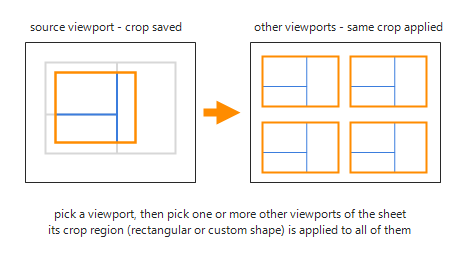
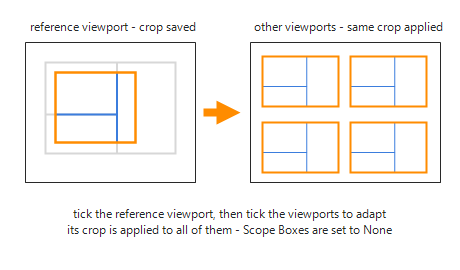
Update Copy Crop Region tool documentation and improve user instructions; replace source viewport selection with reference viewport selection

Changed region(s): [[0.0913, 0.7704, 0.913, 0.8889], [0.0609, 0.0889, 0.4261, 0.1185]]

diff --git a/ADA TOOLS.extension/ADA TOOLS.Tab/Sheet.panel/CopyCropRegion.pushbutton/script.py b/ADA TOOLS.extension/ADA TOOLS.Tab/Sheet.panel/CopyCropRegion.pushbutton/script.py
@@ -2,21 +2,22 @@
 __doc__ = """Copy the crop region of one viewport to other viewports on the
 same sheet.
 
-  1. select the source viewport on the sheet (or select it before
-     launching the tool) - its crop region is saved,
-  2. pick one or more of the other viewports of the sheet from the
-     list,
+  1. tick the reference viewport in the list of the active sheet's
+     viewports - its crop region is saved,
+  2. tick one or more of the other viewports of the sheet,
   3. the saved crop region is applied to all of them.
 
 Rectangular crops (rotated or not) and custom-shaped crops are both
 copied, at the same place in the model. The crop is turned on in the
-target views if it was off. On Revit 2022+ each target viewport is
-then moved back so the model stays where it was on the sheet.
+target views if it was off. If a target's crop is driven by a Scope
+Box, its Scope Box is set to None so the copied crop overrides it.
+On Revit 2022+ each target viewport is then moved back so the model
+stays where it was on the sheet.
 
 Views are skipped (and listed in the report) when they look in a
-different direction than the source (e.g. a section vs a plan), when
-their crop is driven by a Scope Box, or when the source has a split
-crop region. The whole change is one undoable transaction."""
+different direction than the reference (e.g. a section vs a plan).
+A reference with a split crop region cannot be copied. The whole
+change is one undoable transaction."""
 __title__ = "Copy Crop\nRegion"
 __version__ = "Version 1.0"
 __author__ = "ADA"
@@ -24,14 +25,11 @@ __author__ = "ADA"
 import clr
 
 clr.AddReference('RevitAPI')
-clr.AddReference('RevitAPIUI')
 
 from Autodesk.Revit.DB import (
     BoundingBoxXYZ, BuiltInParameter, CurveLoop, ElementId, SubTransaction,
-    Transaction, Transform, View3D, ViewSheet, ViewType, Viewport, XYZ
+    Transaction, Transform, View3D, ViewSheet, ViewType, XYZ
 )
-from Autodesk.Revit.UI.Selection import ISelectionFilter, ObjectType
-from Autodesk.Revit.Exceptions import OperationCanceledException
 
 from pyrevit import forms, revit, script
 
@@ -41,20 +39,11 @@ from GUI.forms import select_from_dict
 from GUI.ReportTheme import ADAReport
 
 doc = revit.doc
-uidoc = revit.uidoc
 
 TITLE = __title__.replace("\n", " ")
 
 NO_CROP_TYPES = (ViewType.DraftingView, ViewType.Legend, ViewType.Rendering,
                  ViewType.DrawingSheet, ViewType.Report)
-
-
-class ViewportFilter(ISelectionFilter):
-    def AllowElement(self, element):
-        return isinstance(element, Viewport)
-
-    def AllowReference(self, reference, point):
-        return False
 
 
 # ---------------------------------------------------------------------------
@@ -78,10 +67,17 @@ def croppable(view):
     return True
 
 
-def scope_box_driven(view):
+def clear_scope_box(view):
+    """Set the view's Scope Box to None. Returns the removed scope box's
+    name, or None if the view had no scope box."""
     param = view.get_Parameter(BuiltInParameter.VIEWER_VOLUME_OF_INTEREST_CROP)
-    return (param is not None
-            and param.AsElementId() != ElementId.InvalidElementId)
+    if param is None or param.AsElementId() == ElementId.InvalidElementId:
+        return None
+    scope_box = doc.GetElement(param.AsElementId())
+    name = scope_box.Name if scope_box is not None else "?"
+    if not param.Set(ElementId.InvalidElementId):
+        raise Exception("could not remove the Scope Box '{}'".format(name))
+    return name
 
 
 def model_to_sheet(viewport):
@@ -151,30 +147,34 @@ class SavedCrop(object):
 # user input
 # ---------------------------------------------------------------------------
 
-def pick_source():
-    preselected = [doc.GetElement(eid)
-                   for eid in uidoc.Selection.GetElementIds()]
-    viewports = [el for el in preselected if isinstance(el, Viewport)]
-    if len(viewports) == 1:
-        return viewports[0]
-
-    try:
-        ref = uidoc.Selection.PickObject(
-            ObjectType.Element, ViewportFilter(),
-            "Select the viewport whose crop region should be copied")
-    except OperationCanceledException:
-        script.exit()
-    return doc.GetElement(ref.ElementId)
+def croppable_viewports(sheet):
+    viewports = [doc.GetElement(vp_id) for vp_id in sheet.GetAllViewports()]
+    return [vp for vp in viewports if croppable(view_of(vp))]
 
 
-def pick_targets(sheet, source):
+def pick_source(viewports):
     options = {}
-    for vp_id in sheet.GetAllViewports():
-        if vp_id == source.Id:
-            continue
-        vp = doc.GetElement(vp_id)
-        if croppable(view_of(vp)):
-            options[viewport_label(vp)] = vp
+    for vp in viewports:
+        label = viewport_label(vp)
+        if not view_of(vp).CropBoxActive:
+            label += "  - crop off"
+        options[label] = vp
+
+    chosen = select_from_dict(
+        options,
+        title=TITLE,
+        label="Tick the reference viewport (its crop region is copied):",
+        button_name="Next",
+        version=__version__,
+        SelectMultiple=False)
+    if not chosen:
+        script.exit()
+    return chosen[0]
+
+
+def pick_targets(viewports, source):
+    options = {viewport_label(vp): vp for vp in viewports
+               if vp.Id != source.Id}
     if not options:
         forms.alert("There are no other croppable viewports on this sheet.",
                     title=TITLE, exitscript=True)
@@ -201,12 +201,14 @@ def main():
         forms.alert("Open a sheet first - the viewports must be on the "
                     "active sheet.", title=TITLE, exitscript=True)
 
-    source = pick_source()
-    source_view = view_of(source)
-    if not croppable(source_view):
-        forms.alert("'{}' has no crop region ({}).".format(
-                    source_view.Name, source_view.ViewType),
+    viewports = croppable_viewports(sheet)
+    if len(viewports) < 2:
+        forms.alert("This sheet needs at least two viewports with a crop "
+                    "region (plans, sections, elevations...).",
                     title=TITLE, exitscript=True)
+
+    source = pick_source(viewports)
+    source_view = view_of(source)
     if not source_view.CropBoxActive:
         forms.alert("The crop region of '{}' is turned off - turn it on and "
                     "set it first.".format(source_view.Name),
@@ -218,11 +220,11 @@ def main():
                     "copied.".format(source_view.Name),
                     title=TITLE, exitscript=True)
 
-    targets = pick_targets(sheet, source)
+    targets = pick_targets(viewports, source)
 
     report = ADAReport(TITLE)
     report.line("Sheet: <b>{} - {}</b>".format(sheet.SheetNumber, sheet.Name))
-    report.line("Source: <b>{}</b> &nbsp;({} crop)".format(
+    report.line("Reference: <b>{}</b> &nbsp;({} crop)".format(
         viewport_label(source),
         "custom-shaped" if saved.is_shape else "rectangular"))
 
@@ -237,10 +239,7 @@ def main():
             if not view.ViewDirection.Normalize().IsAlmostEqualTo(
                     saved.direction, 1e-6):
                 rows.append([label, "Skipped - looks in a different "
-                                    "direction than the source"])
-                continue
-            if scope_box_driven(view):
-                rows.append([label, "Skipped - crop is driven by a Scope Box"])
+                                    "direction than the reference"])
                 continue
 
             anchor_before = None
@@ -254,12 +253,18 @@ def main():
                 was_pinned = vp.Pinned
                 if was_pinned:
                     vp.Pinned = False
+                removed_scope_box = clear_scope_box(view)
                 view.CropBoxActive = True
                 saved.apply(view)
                 doc.Regenerate()
 
+                notes = ""
+                if removed_scope_box:
+                    notes += " (Scope Box '{}' set to None)".format(
+                        removed_scope_box)
+
                 # keep the model where it was on the sheet
-                kept = ""
+                kept = notes
                 if anchor_before is not None:
                     to_sheet = model_to_sheet(vp)
                     if to_sheet is not None:
@@ -267,7 +272,7 @@ def main():
                         drift = XYZ(drift.X, drift.Y, 0)
                         if drift.GetLength() > 1e-9:
                             vp.SetBoxCenter(vp.GetBoxCenter() + drift)
-                        kept = " (model kept in place on the sheet)"
+                        kept += " (model kept in place on the sheet)"
                 if was_pinned:
                     vp.Pinned = True
                 sub.Commit()
